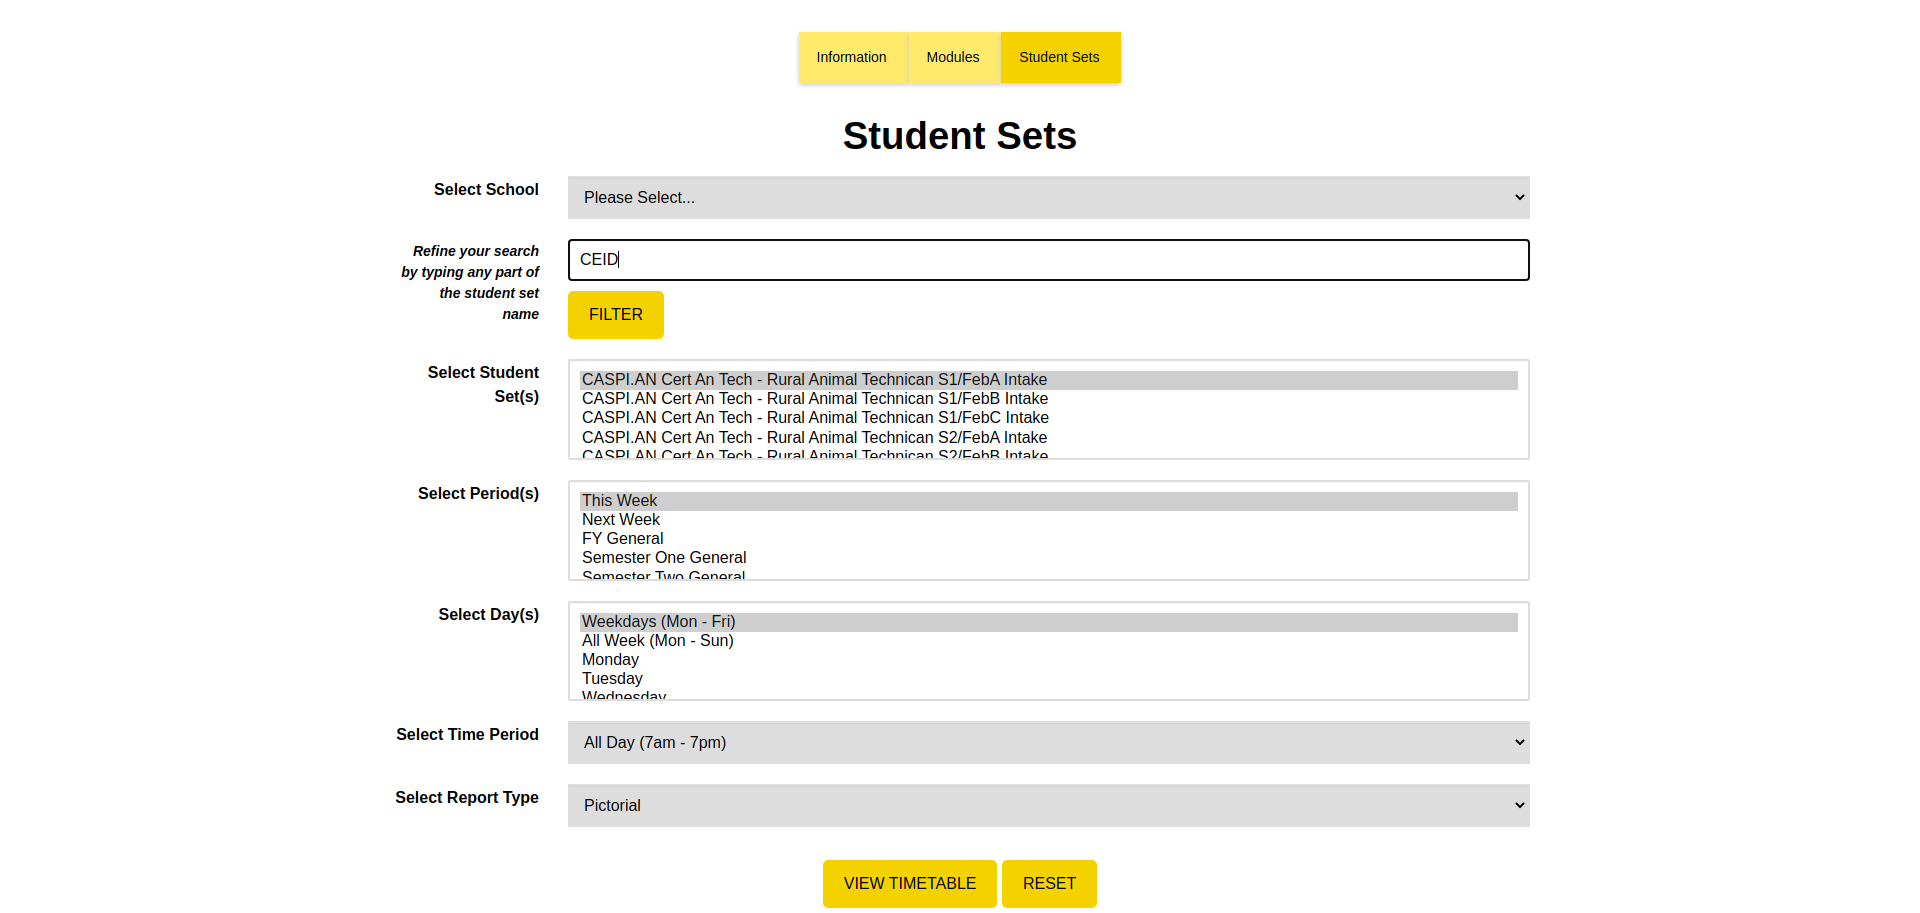
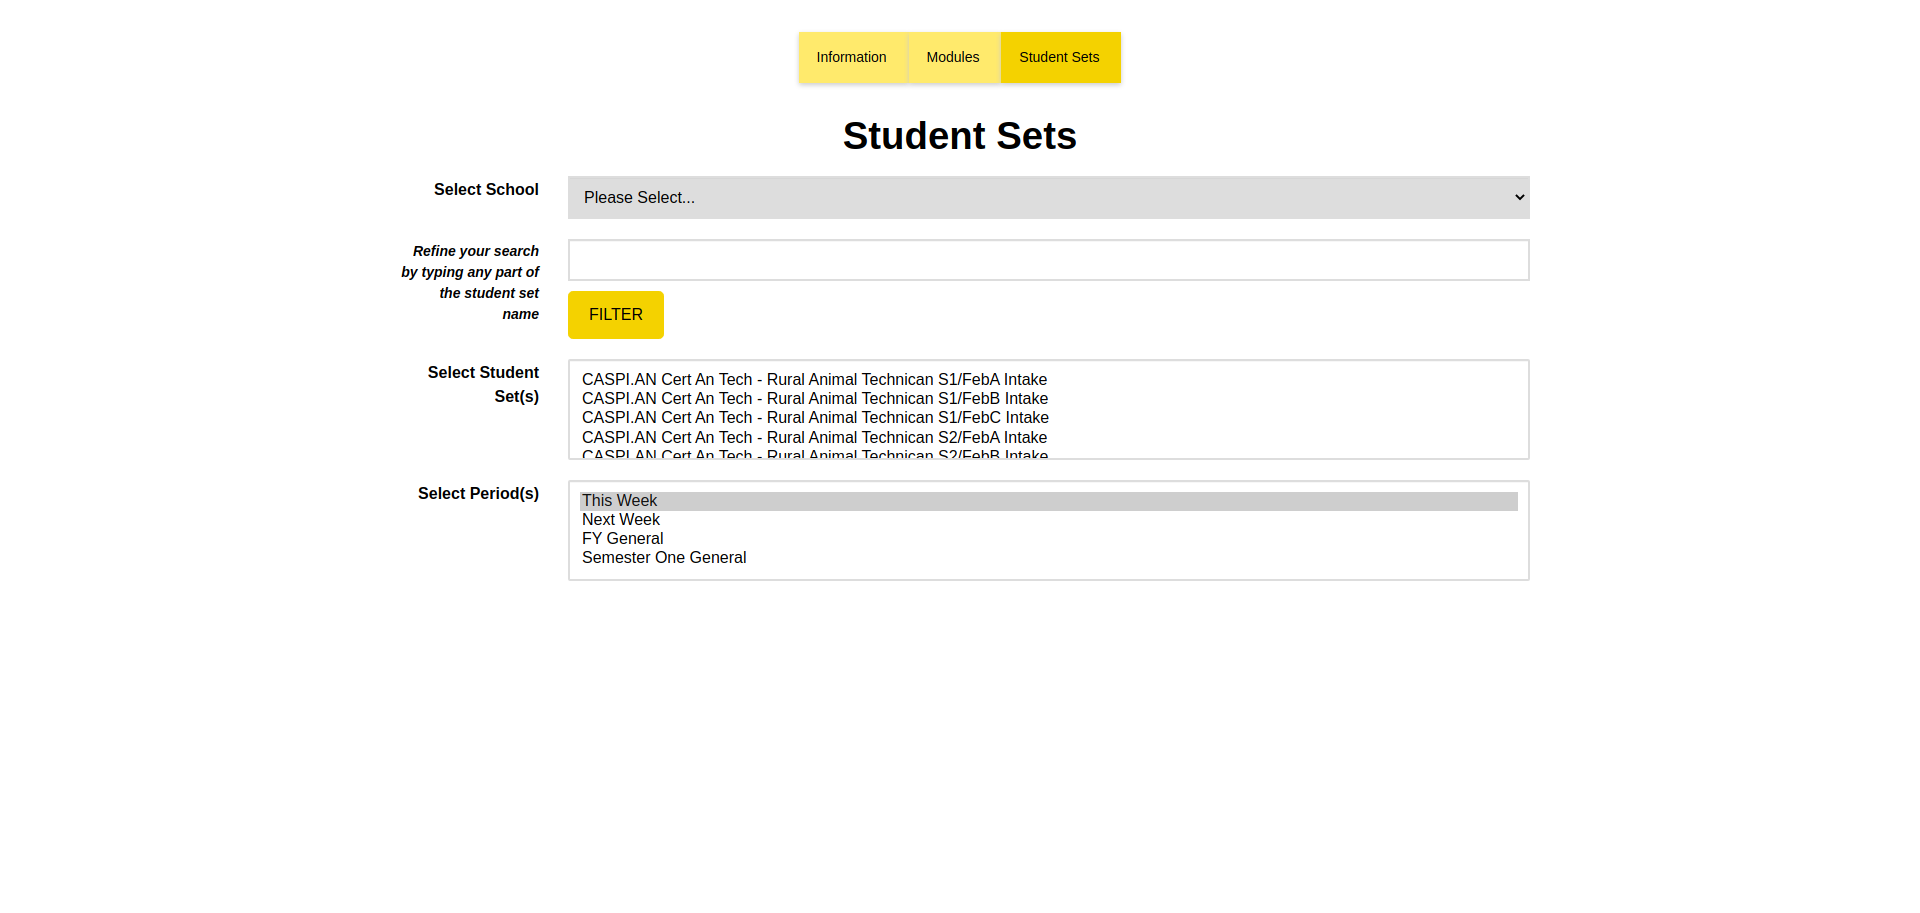
now opens new tab with studentset id calender

Changed region(s): [[0.1875, 0.6134, 0.8125, 1.0], [0.2812, 0.3987, 0.8125, 0.4294], [0.2812, 0.276, 0.3438, 0.3067]]

diff --git a/Student_Sets.js b/Student_Sets.js
@@ -1,0 +1,50 @@
+const puppeteer = require('puppeteer')
+
+
+const options = {
+    headless: false,
+    defaultViewport: null,
+    args: ['--window-size=1920,1080'],
+    
+  };
+
+
+(async () => {
+    const browser = await puppeteer.launch(options)
+    const page = await browser.newPage()
+
+
+  
+
+    await page.goto('https://timetable.wintec.ac.nz/student/2021/')
+    await page.click('#LinkBtn_student_sets') // click button
+    // ^^ from Change_Page_Via_Button.js
+    // https://blog.antoine-augusti.fr/2019/08/submit-form-puppeteer/
+    //https://chercher.tech/puppeteer/select-dropdown-puppeteer
+
+   // await page.waitForSelector("#tWildcard"); // needed to allow time for tWildcard to load
+    //await page.type('#tWildcard','CEID') used to configure : Refine your search by typing any part of the student set name
+   // const searchForm1 = await page.$('#form1');
+   // await searchForm1.evaluate(searchForm1 => searchForm1.submit()); // submits tWildcard filter
+   
+   
+   
+    await page.waitForSelector("#tWildcard");  // loads page and student sets
+    await page.select('#dlObject', '#SPLUSA72251')
+    await page.waitForSelector("#bGetTimetable");
+   await page.click('#bGetTimetable') 
+   
+  
+   await page.waitForNavigation({ waitUntil: 'networkidle0' })
+ console.log(browser.pages());
+
+
+
+
+   await page.screenshot({ path: 'screenshots/Student_Sets.png' });
+   
+//  browser.close()
+    console.log('Completed Successfully')
+   })()
+  
+   
